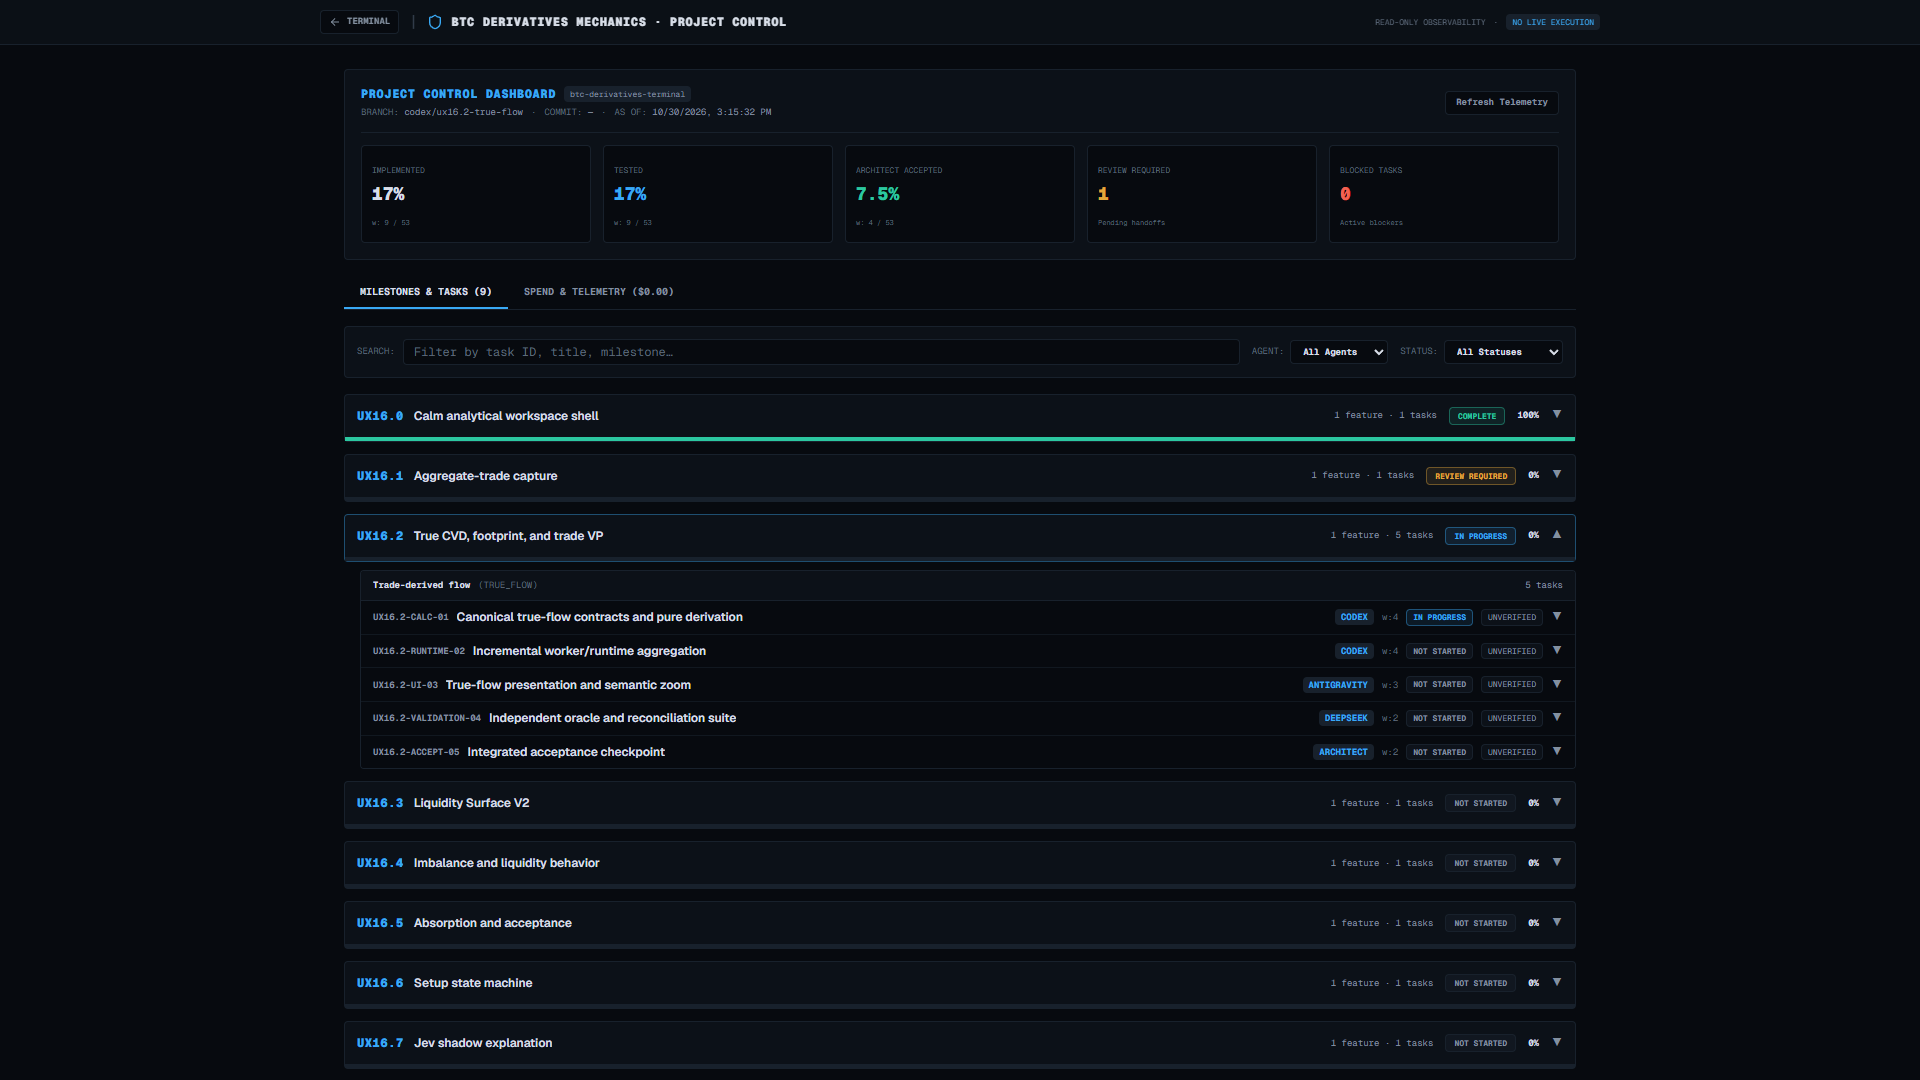
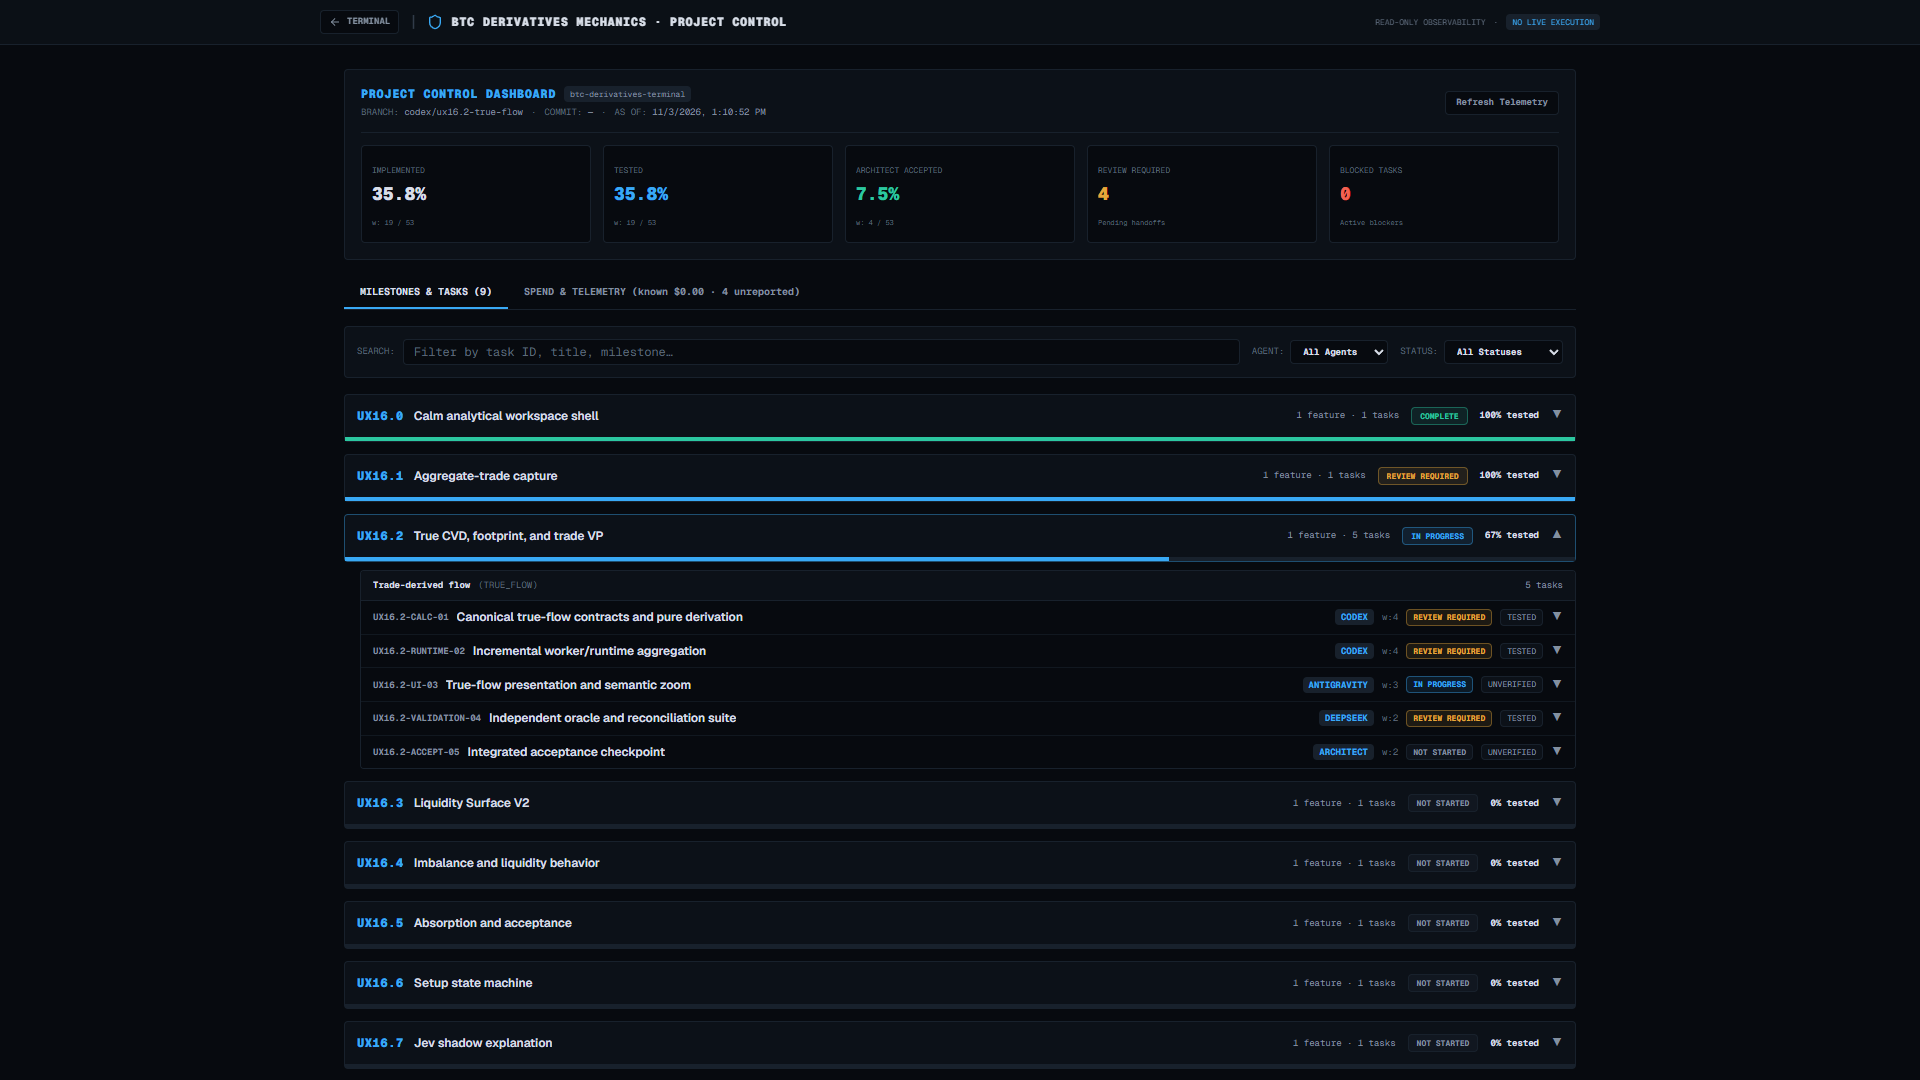
docs(ux16.2): record assembled acceptance evidence

diff --git a/src/lib/project-control/ux16-plan.ts b/src/lib/project-control/ux16-plan.ts
@@ -7,7 +7,7 @@ import {
     type WorkStatus,
 } from './contracts';
 
-const UPDATED_AT = '2026-11-02T00:00:00.000Z';
+const UPDATED_AT = '2026-11-03T00:00:00.000Z';
 
 interface TaskInput {
     id: string;
@@ -129,7 +129,7 @@ export function buildUx16Milestones(): MilestoneProgressV1[] {
                 tests: [{ id: 'ux16-1-suite', command: 'npx vitest run && npm run test:ux16', result: 'PASS', passed: 253, failed: 0, skipped: 2, executedAt: '2026-10-26T00:00:00.000Z', commit: 'd357dd6', artifactPaths: ['.artifacts/ui-overhaul/ux16-1-ready-enabled-1920x1080.png'] }],
             }),
         ]),
-        milestone('UX16.2', 'True CVD, footprint, and trade VP', 'IN_PROGRESS', 'TRUE_FLOW', 'Trade-derived flow', [
+        milestone('UX16.2', 'True CVD, footprint, and trade VP', 'REVIEW_REQUIRED', 'TRUE_FLOW', 'Trade-derived flow', [
             task({
                 id: 'UX16.2-CALC-01', milestoneId: 'UX16.2', featureId: 'TRUE_FLOW',
                 title: 'Canonical true-flow contracts and pure derivation',
@@ -150,9 +150,10 @@ export function buildUx16Milestones(): MilestoneProgressV1[] {
                 id: 'UX16.2-UI-03', milestoneId: 'UX16.2', featureId: 'TRUE_FLOW',
                 title: 'True-flow presentation and semantic zoom',
                 description: 'Render discontinuous CVD, footprint geometry and exact/mixed trade profile states.',
-                owner: 'ANTIGRAVITY', supportingAgents: ['CODEX'], status: 'IN_PROGRESS', weight: 3, dependsOn: ['UX16.2-CALC-01'],
+                owner: 'ANTIGRAVITY', supportingAgents: ['CODEX'], status: 'REVIEW_REQUIRED', weight: 3, dependsOn: ['UX16.2-CALC-01'],
                 acceptanceCriteria: ['Numbers hide before geometry.', 'No footprint renders before capture.', 'Mixed coverage is visually distinct.'],
-                branch: 'agent/gemini-ux16.2-ui',
+                branch: 'codex/ux16.2-true-flow', commit: 'c8e7072', evidenceStatus: 'TESTED',
+                tests: [{ id: 'ux16-2-ui-browser', command: 'npx playwright test --config=playwright.ux16.config.ts', result: 'PASS', passed: 38, failed: 0, skipped: 2, executedAt: UPDATED_AT, commit: 'c8e7072', artifactPaths: ['.artifacts/ui-overhaul/project-control-milestones-1920x1080.png', '.artifacts/ui-overhaul/ux16-2-true-flow-desktop-1920x1080.png'] }],
             }),
             task({
                 id: 'UX16.2-VALIDATION-04', milestoneId: 'UX16.2', featureId: 'TRUE_FLOW',
@@ -167,9 +168,11 @@ export function buildUx16Milestones(): MilestoneProgressV1[] {
                 id: 'UX16.2-ACCEPT-05', milestoneId: 'UX16.2', featureId: 'TRUE_FLOW',
                 title: 'Integrated acceptance checkpoint',
                 description: 'Full unit, type, lint, build, browser and visual review of the assembled milestone.',
-                owner: 'ARCHITECT', supportingAgents: ['CODEX', 'ANTIGRAVITY', 'DEEPSEEK'], status: 'NOT_STARTED', weight: 2,
+                owner: 'ARCHITECT', supportingAgents: ['CODEX', 'ANTIGRAVITY', 'DEEPSEEK'], status: 'REVIEW_REQUIRED', weight: 2,
                 dependsOn: ['UX16.2-RUNTIME-02', 'UX16.2-UI-03', 'UX16.2-VALIDATION-04'],
                 acceptanceCriteria: ['All five UX16.2 plan acceptance gates pass.'],
+                branch: 'codex/ux16.2-true-flow', commit: 'c8e7072', evidenceStatus: 'TESTED',
+                tests: [{ id: 'ux16-2-assembled', command: 'npx vitest run; npx tsc --noEmit; npx eslint scoped; npx playwright test --config=playwright.ux16.config.ts', result: 'PASS', passed: 343, failed: 0, skipped: 2, executedAt: UPDATED_AT, commit: 'c8e7072', artifactPaths: ['docs/ui-ux/UX16_2_VISUAL_ACCEPTANCE.md', 'docs/ui-ux/UX16_2_VALIDATION_MATRIX.md'] }],
             }),
         ]),
         milestone('UX16.3', 'Liquidity Surface V2', 'NOT_STARTED', 'LIQUIDITY_SURFACE', 'Timestamp-aligned depth', [

diff --git a/src/lib/project-control/project-control.test.ts b/src/lib/project-control/project-control.test.ts
@@ -119,6 +119,6 @@ describe('project-control contracts and calculations', () => {
         });
         expect(ProjectControlResponseV1Schema.parse(response)).toEqual(response);
         expect(response.usage.totals.runsWithUnreportedUsage).toBeGreaterThan(0);
-        expect(response.progress.milestones.find((milestone: MilestoneProgressV1) => milestone.id === 'UX16.2')?.status).toBe('IN_PROGRESS');
+        expect(response.progress.milestones.find((milestone: MilestoneProgressV1) => milestone.id === 'UX16.2')?.status).toBe('REVIEW_REQUIRED');
     });
 });

diff --git a/.agents/handoffs/codex.md b/.agents/handoffs/codex.md
@@ -1,13 +1,13 @@
-# CODEX HANDOFF REPORT — UX16.2 CALCULATION AND RUNTIME CHECKPOINT
+# CODEX HANDOFF REPORT — UX16.2 ASSEMBLED RELEASE CANDIDATE
 
 >>> COMPLETED BY: Codex
 >>> STATUS: REVIEW REQUIRED
 >>> BRANCH: codex/ux16.2-true-flow
->>> COMMIT: dea002c
->>> TESTS: PASS — full Vitest 42 files/256 tests; TypeScript 0 errors; scoped ESLint 0 warnings/errors; Next.js 16.4.2 webpack production build passed. Default Turbopack build remains blocked by this worktree's external node_modules junction and was not represented as a code failure.
+>>> COMMIT: c8e7072
+>>> TESTS: PASS — full Vitest 47 files/305 tests; TypeScript 0 errors; scoped ESLint 0 warnings/errors; Next.js 16.4.2 webpack production build passed; full UX16 Playwright 38 passed/2 intentional mobile skips
 >>> NEXT AGENT: Architect
->>> ACTION REQUIRED: Review Codex calculations/runtime and integrate the pending Antigravity and DeepSeek branches after their committed handoffs
->>> TARGET: UX16.2 true-flow contracts, pure/incremental calculations, worker/runtime snapshot emission, project-control backend
+>>> ACTION REQUIRED: Review the assembled UX16.2 shadow release candidate and production configuration; record Architect acceptance separately from tested evidence
+>>> TARGET: UX16.2 calculations/runtime, corrected independent oracle, true-flow presentation, project-control dashboard and usage ledger
 
 ## Checkpoint result
 
@@ -41,23 +41,33 @@
 
 ## Verification evidence
 
-- Focused true-flow/runtime verification: **3 files, 18 tests passed** after
-  the reconnect-semantics correction.
-- `npx vitest run`: **42 files, 256 tests passed**.
+- `npx vitest run`: **47 files, 305 tests passed**.
 - `npx tsc --noEmit`: **passed**.
-- Scoped ESLint over new orderflow, project-control, and API files: **passed with zero output**.
-- `npx next build --webpack`: **passed**, including `/api/project-control`.
+- Scoped ESLint over all changed source, dashboard, and browser files: **zero
+  errors and warnings**.
+- `npx next build --webpack`: **passed**, including `/project-control` and
+  `/api/project-control`.
+- `npx playwright test --config=playwright.ux16.config.ts`: **38 passed, two
+  intentional desktop-only mobile skips**.
 - `npm run build`: unable to use Turbopack because `node_modules` is a junction
   to another worktree; Turbopack's hermetic resolver rejects dependencies
   outside this workspace root.
 
-## Remaining integration work
+## Assembled review result
 
-1. Review and integrate independent DeepSeek oracle/boundary findings after its
-   branch produces a committed handoff.
-2. Review and integrate Antigravity presentation/dashboard work after its
-   branch produces a committed handoff.
-3. Run final full-suite and assembled-browser acceptance.
+1. Antigravity's uncommitted draft was preserved at `cfb2ef5` and corrected
+   after integration. Its true-flow presentation and `/project-control`
+   dashboard are wired and tested.
+2. DeepSeek's uncommitted draft was preserved at `c64f006`; its incorrect
+   hand totals, reconnect fixture and unverified matrix claims were replaced
+   in `9da7073` by 16 auditable scenarios and 21 executable tests.
+3. The lower CVD chart uses the current uninterrupted segment on the existing
+   timestamp grid, preserving linked chart coordinates without drawing data
+   before capture.
+4. The dashboard exposes implemented, tested and Architect-accepted progress
+   separately. Unknown agent usage remains `UNREPORTED`, not a zero-cost claim.
+5. The full UX16 browser suite passed 38 tests with two explicit desktop-only
+   skips on mobile. Production alias verification remains a release step.
 
 DeepSeek compatibility note: any pre-`dea002c` reconnect fixture that expected
 `CAPTURED_EXACT` across a reconnect must be updated to

diff --git a/docs/ui-ux/UX16_2_VISUAL_ACCEPTANCE.md b/docs/ui-ux/UX16_2_VISUAL_ACCEPTANCE.md
@@ -3,8 +3,9 @@
 ## 1. Overview and Milestone Purpose
 
 **Milestone**: UX16.2 — True Trade-Based CVD, Footprint, and Captured-Trade Volume Profile Presentation & Read-Only Project Control Dashboard  
-**Status**: DRAFT — CODEX TAKEOVER REVIEW IN PROGRESS  
-**Source Baseline**: `codex/ux16.2-true-flow` (commit `00efc7ddb2ad8b3fe0cee10ed6cf77e45634b5e7`)  
+**Status**: TESTED — ARCHITECT REVIEW REQUIRED
+
+**Source Baseline**: `codex/ux16.2-true-flow` (assembled commit `c8e7072`)
 **Worktree Branch**: `agent/gemini-ux16.2-ui`  
 **Ownership Boundary**:
 - Pure calculations and contracts: Codex (`src/lib/orderflow/true-flow.ts`, `src/lib/orderflow/true-flow-contracts.ts`, `src/lib/project-control/contracts.ts`, `src/app/api/project-control/route.ts`).
@@ -93,6 +94,9 @@
 
 | Artifact | Resolution | Description |
 | :--- | :--- | :--- |
+| `ux16-2-true-flow-desktop-1920x1080.png` | 1920×1080 | Desktop Flow mode and lower CVD pane |
+| `ux16-2-true-flow-compact-1664x936.png` | 1664×936 | Compact desktop Flow mode |
+| `ux16-2-true-flow-laptop-1366x768.png` | 1366×768 | Laptop Flow mode |
 | `ux16-2-true-flow-mobile-390x844.png` | 390×844 | Mobile responsive layout with zero horizontal overflow |
 | `project-control-milestones-1920x1080.png` | 1920×1080 | Project Control dashboard showing milestones and separate completion percentages |
 | `project-control-spend-1920x1080.png` | 1920×1080 | Spend & telemetry tab showing cost truthfulness and subscription handling |
@@ -102,7 +106,10 @@
 
 ## 5. Verification Results
 
-- **Focused component tests**: 2 files, 25 tests passed during Codex takeover review.
-- **TypeScript**: `npx tsc --noEmit` passed during Codex takeover review.
-- **Full suite, build and Playwright**: pending assembled integration review.
-- **Live true-flow wiring**: pending; draft components are not yet connected to the worker snapshot.
+- **Unit and contract tests**: 47 files, 305 tests passed.
+- **TypeScript and scoped ESLint**: passed with zero errors and zero warnings.
+- **Production build**: Next.js 16.4.2 webpack build passed, including `/project-control` and `/api/project-control`.
+- **Full UX16 browser regression**: 38 passed, two intentional desktop-only mobile skips.
+- **True-flow wiring**: worker snapshots reach the Flow inspector and the linked lower CVD chart; the chart displays only the current uninterrupted segment.
+- **Live upstream limitation**: browser integration uses deterministic worker fixtures. The earlier UX16.1 bounded Binance observation established stream reachability, not continuous production availability.
+- **Release posture**: shadow decision support only; no setup grading, Jev authority, or live execution.

diff --git a/docs/ui-ux/PROGRESS.md b/docs/ui-ux/PROGRESS.md
@@ -1,9 +1,9 @@
 # UI/UX Overhaul Progress
 
-Version: 3.5
-Last updated: 2026-10-30
-Overall status: UX16.2 TRUE-FLOW IMPLEMENTATION IN PROGRESS — UX16.1 INTEGRATED AND REVIEW EVIDENCE RETAINED
-Current checkpoint: UX16.2 canonical contracts/calculations and project-control telemetry started on `codex/ux16.2-true-flow`
+Version: 3.6
+Last updated: 2026-11-03
+Overall status: UX16.2 ASSEMBLED AND TESTED — ARCHITECT REVIEW AND RELEASE IN PROGRESS
+Current checkpoint: UX16.2 calculation, presentation, independent oracle and project-control dashboard verified on `codex/ux16.2-true-flow`
 
 ## Scope Statement
 
@@ -252,3 +252,12 @@ Every displayed metric requires source, mode, and timestamp/freshness presentati
 - DeepSeek cross-checked 16 deterministic scenarios against production and began its oracle data and validation matrix on `agent/deepseek-ux16.2-validation`; reconciliation/boundary test deliverables and a commit are still pending.
 - Codex added bounded incremental true-flow session state and worker snapshot emission in `80ef5c3`; focused runtime verification proves session totals survive raw-tape eviction.
 - Codex hardened reconnect coverage semantics and transactional limits in `dea002c`; all 256 repository tests pass.
+
+### 2026-11-03 — UX16.2 assembled release candidate
+
+- Codex preserved the Antigravity and DeepSeek drafts, corrected the DeepSeek oracle, and integrated 16 hand-calculated scenarios with 21 boundary/reconciliation tests.
+- Connected the true-flow worker snapshot to the Flow inspector and linked lower CVD chart. The chart keeps timestamp alignment by using whitespace before captured trades and shows the current uninterrupted segment after a gap.
+- Added inspectable CVD segments, footprint geometry with semantic zoom, and a captured-trade profile with distinct exact/gapped/mixed coverage labels.
+- Added the read-only `/project-control` progress and usage/spend dashboard, including per-task evidence and explicit `UNREPORTED` cost states.
+- Verified 47 unit test files and 305 tests, TypeScript, scoped ESLint, production webpack build, and 38 UX16 browser tests with two intentional mobile skips.
+- UX16.2 remains shadow decision support and awaits Architect acceptance; no institutional identity claim or live execution was added.
